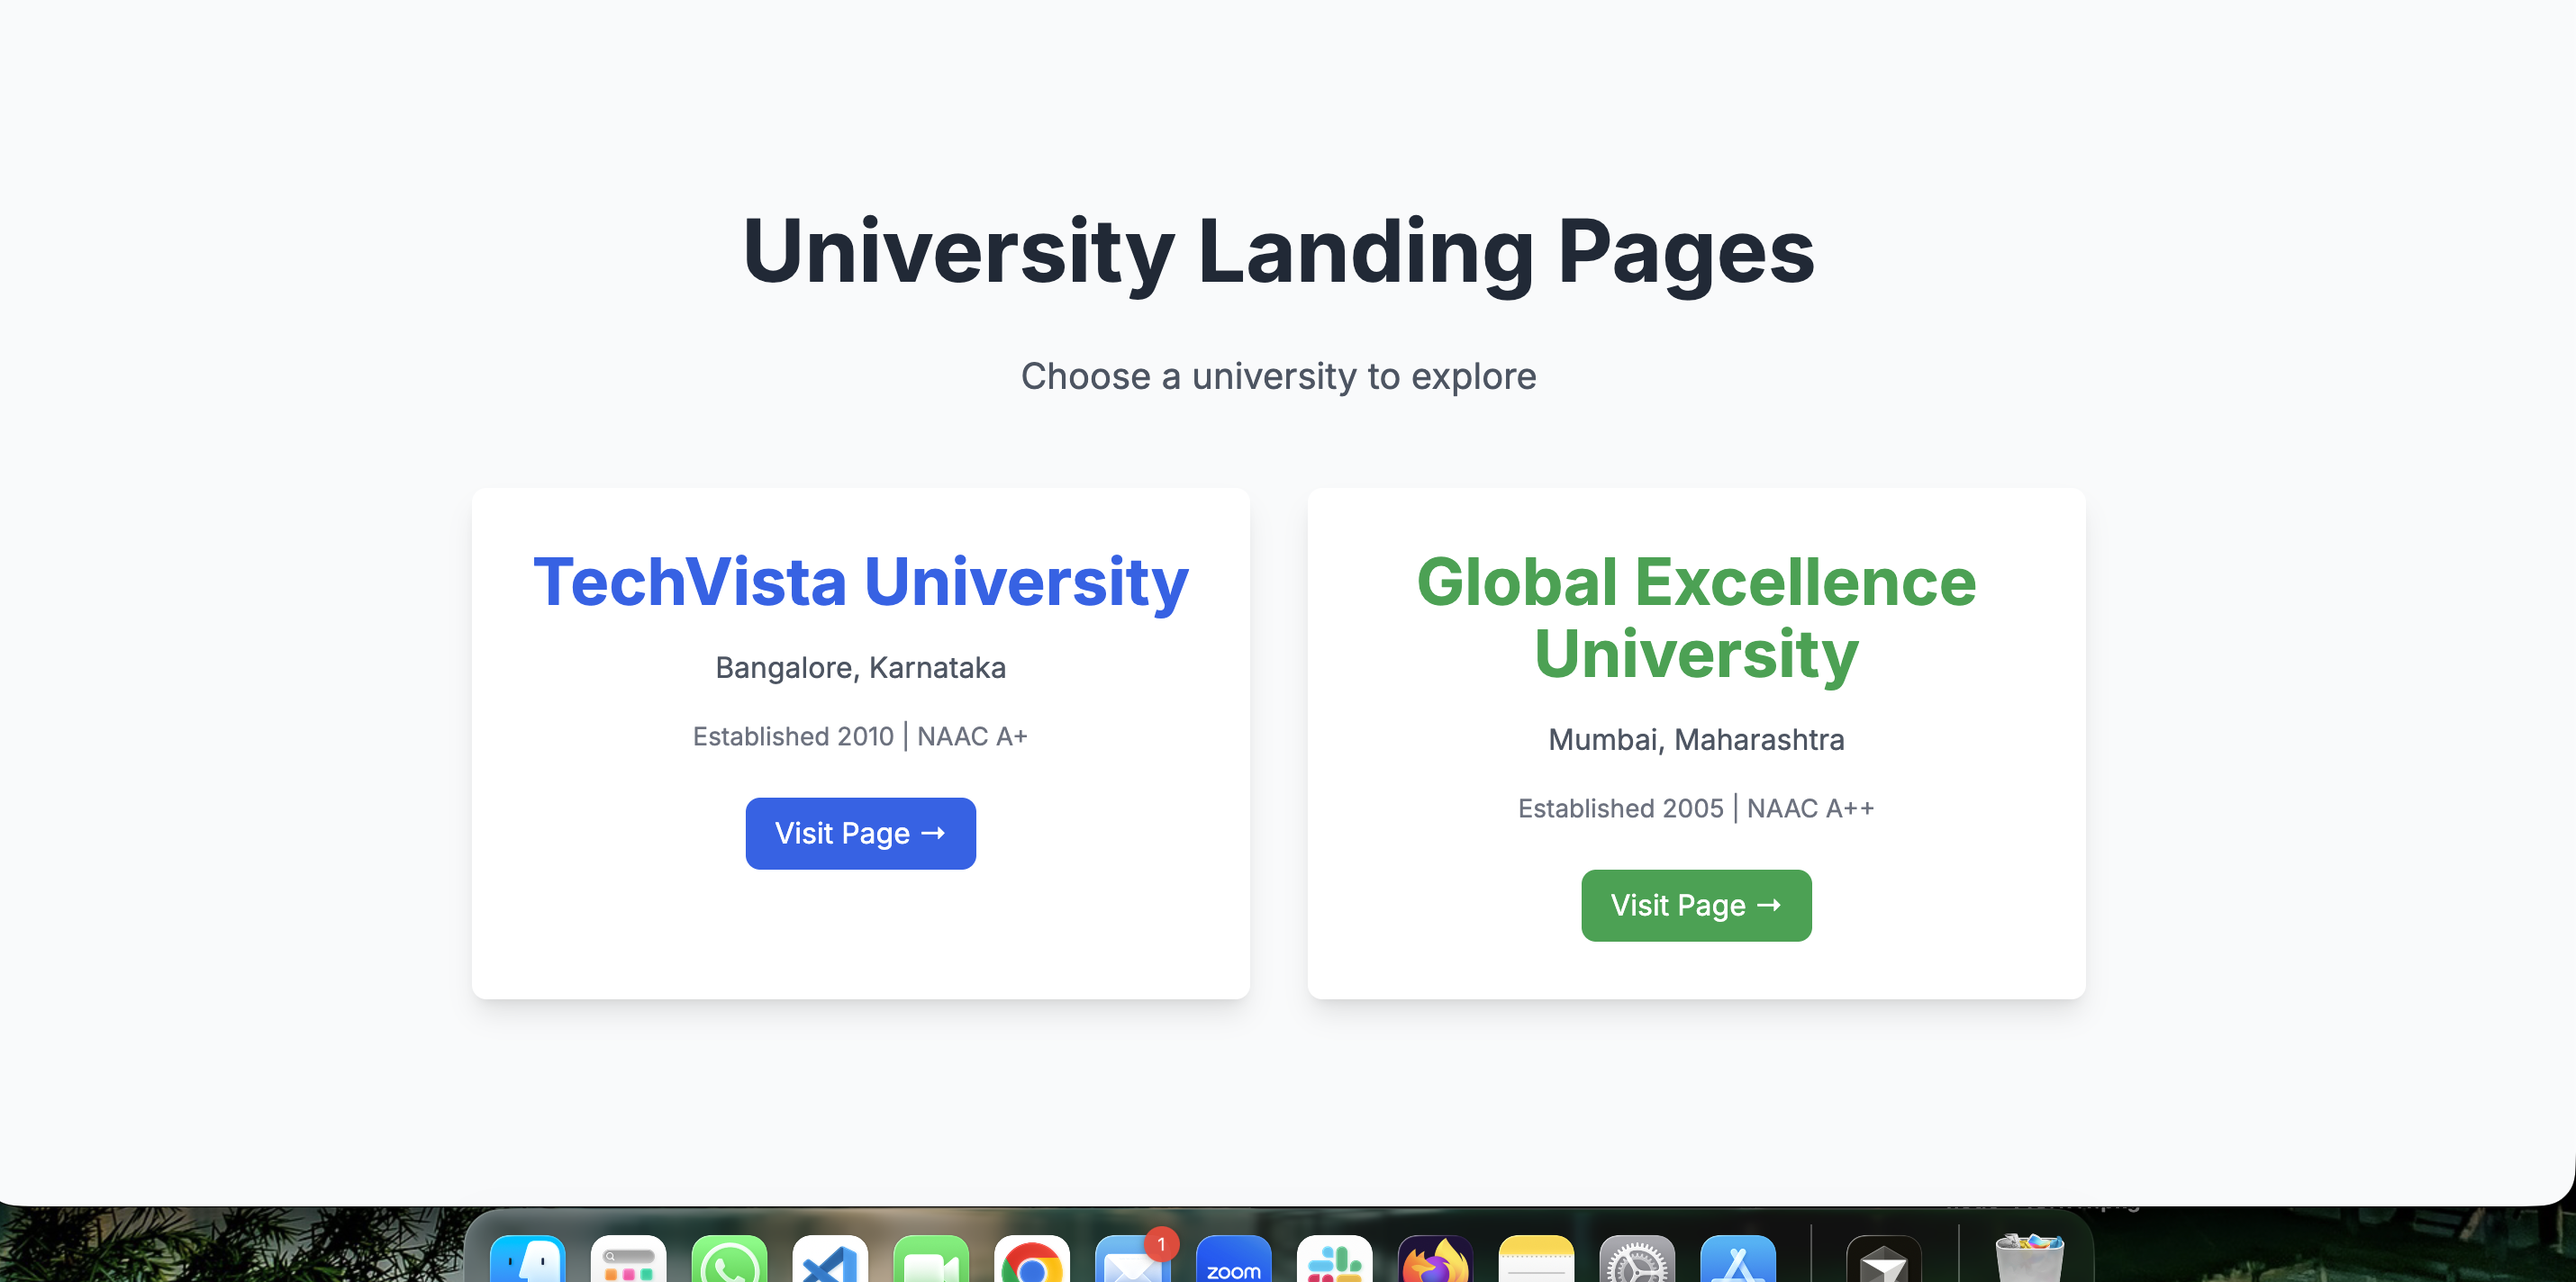
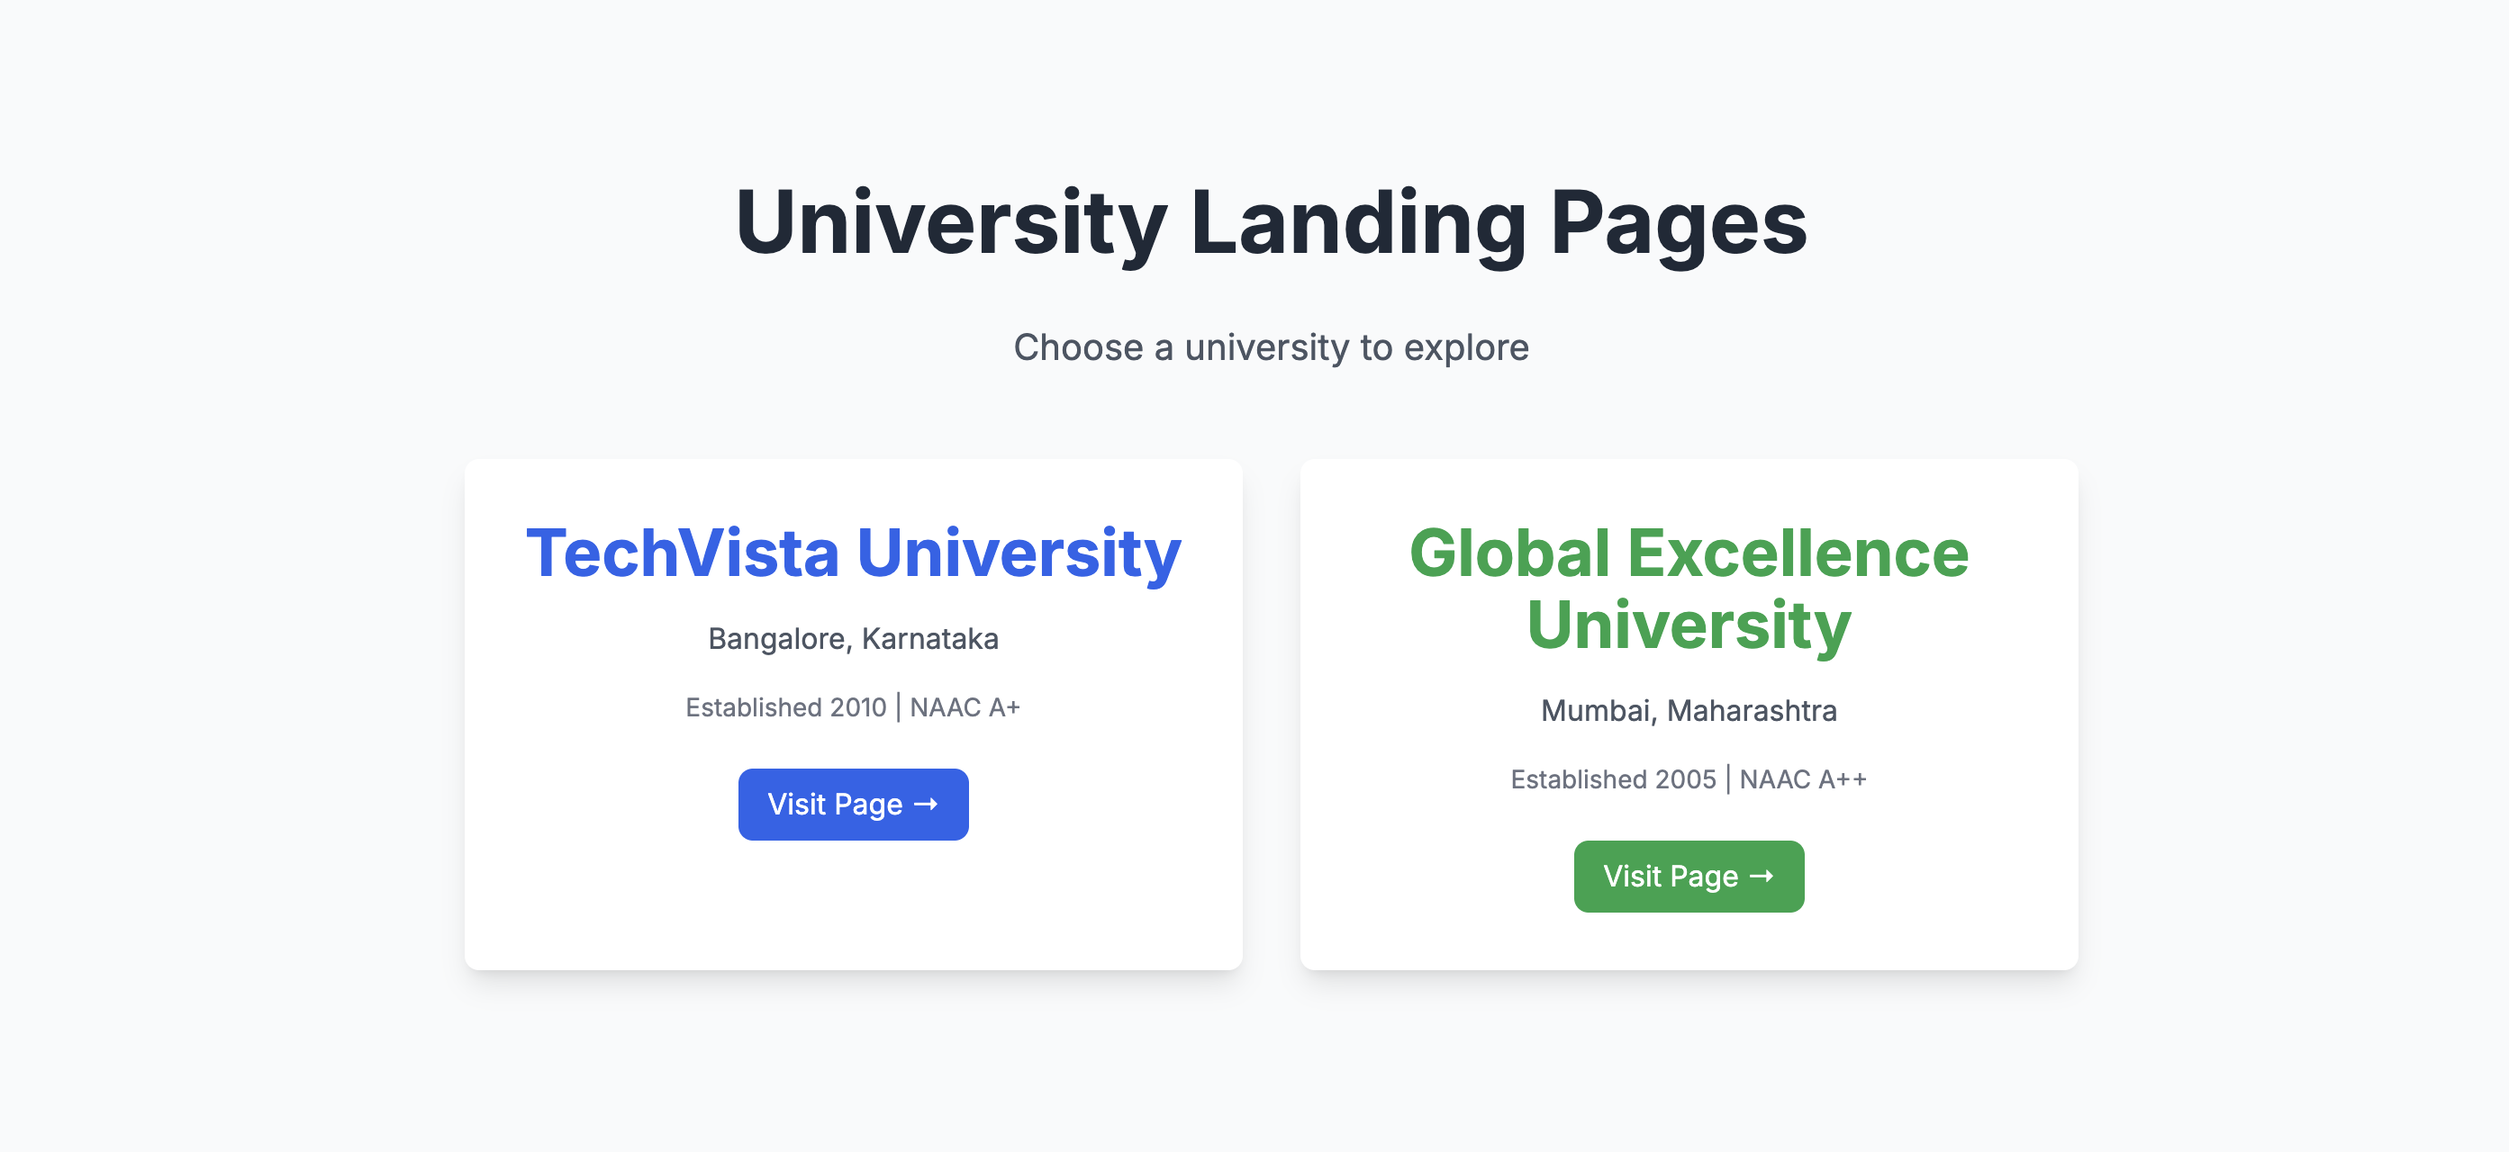
readme updated

diff --git a/README.md b/README.md
@@ -2,7 +2,15 @@
 
 Two beautiful, responsive landing pages for private universities with integrated lead forms, APIs, and Pipedream workflow integration.
 
-[![Live Demo]](https://university-list-taupe.vercel.app/)
+<!-- Large live demo preview -->
+<p align="center">
+   <a href="https://university-list-taupe.vercel.app/" target="_blank" rel="noopener noreferrer">
+      <!-- Use the home screenshot as a large clickable preview -->
+      <img src="assets/images/home.png" alt="Live Demo - University Landing Pages" style="width:100%;max-width:980px;border-radius:8px;box-shadow:0 8px 24px rgba(0,0,0,0.12);">
+   </a>
+</p>
+
+[Open Live Demo »](https://university-list-taupe.vercel.app/)
 
 ## 📸 Screenshots
 
